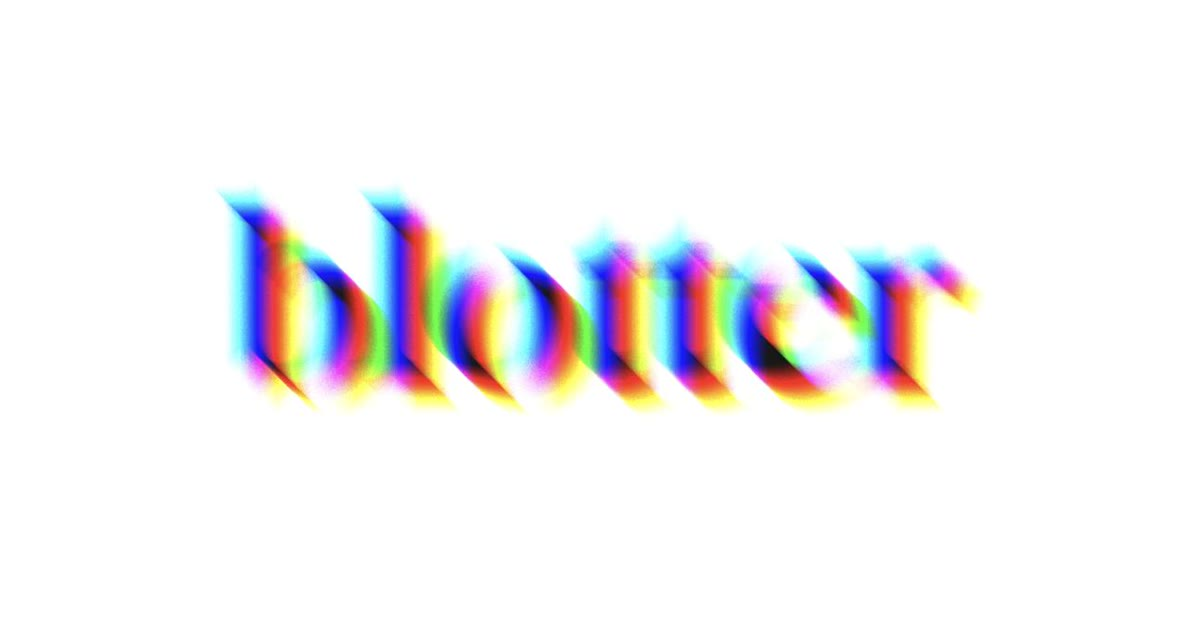
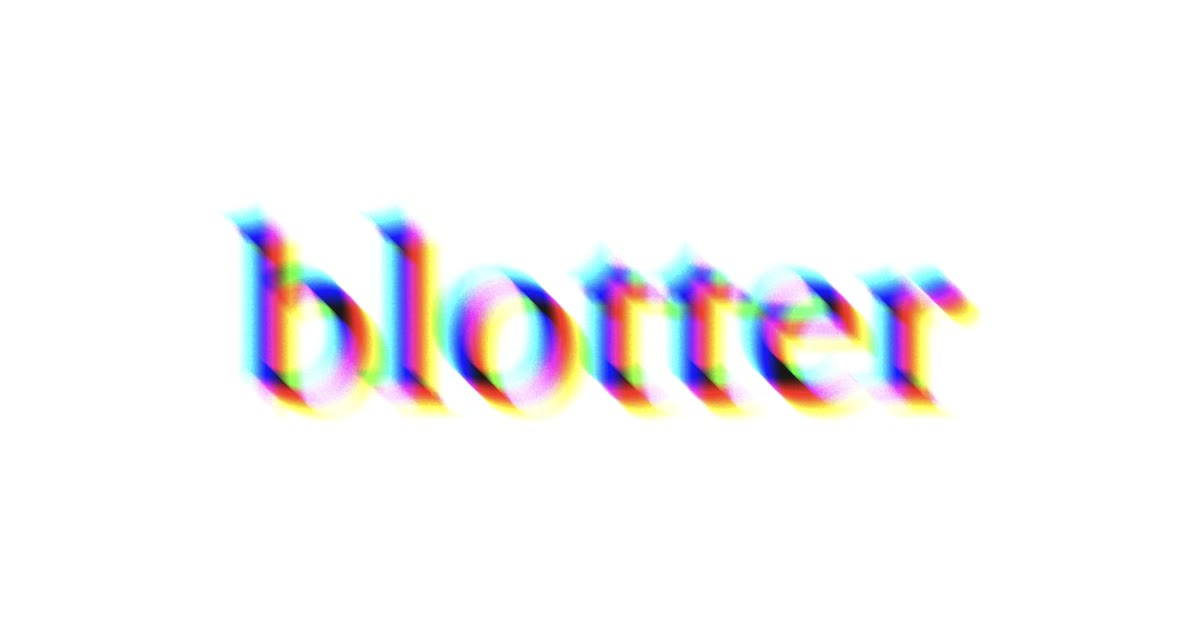
castoro display face
Register Castoro in astro.config.ts, update the guide snippets and the Text
overlay that name the family literally, and re-render public/images/og.jpg
through ChannelSplitMaterial with the new face (uniforms unchanged: offset
0.06, rotation 45, blur on, noise off).

Claude-Session: https://claude.ai/code/session_01Q3ECK7uedHwpB8RucXLZoi

Changed region(s): [[0.185, 0.3016, 0.8325, 0.6635]]

diff --git a/astro.config.ts b/astro.config.ts
@@ -20,10 +20,10 @@ export default defineConfig({
   fonts: [
     {
       provider: fontProviders.google(),
-      name: 'Gloock',
+      name: 'Castoro',
       cssVariable: '--font-face-display',
       weights: [400],
-      styles: ['normal'],
+      styles: ['normal', 'italic'],
       subsets: ['latin'],
       fallbacks: ['Georgia', 'serif'],
     },

diff --git a/src/data/api/text.ts b/src/data/api/text.ts
@@ -9,7 +9,7 @@ export default {
   example: `import { Text } from "blotter.ts";
 
 const text = new Text("observation", {
-  family: "'Gloock', serif",
+  family: "'Castoro', serif",
   size: 64,
   fill: "#1c1917",
   paddingLeft: 20,
